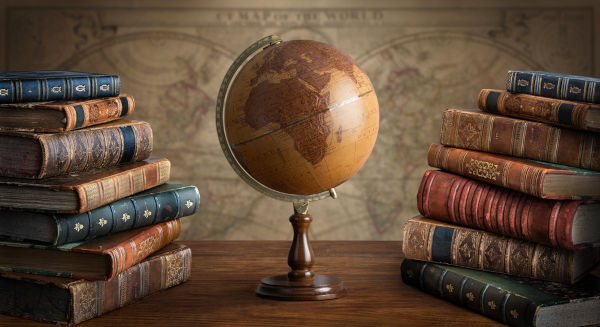
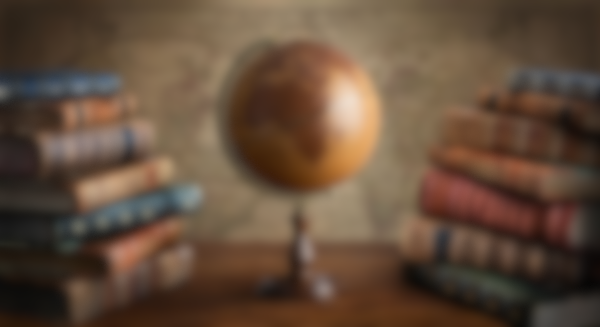
fix: re-corrigindo o header

diff --git a/css/disciplinas.css b/css/disciplinas.css
@@ -1,76 +1,54 @@
-* {
-    padding: 0;
-    margin: 0;
+ * {
     box-sizing: border-box;
+    margin: 0;
+    padding: 0;
 }
 
-body {
-    background-color:white;
-    font-family: 'Times New Roman', Times, serif;
-}
 
 header {
-    padding-left: 15px;
-    padding-right: 15px;
-    background-color: #c8deff;;
+    background-color: #c8deff;
     color: #103060;
     display: flex;
-    flex-direction: row;
-    justify-content: space-between;
     align-items: center;
-    gap: 10%;
+    justify-content: space-between;
 }
+
 
 #logo {
- padding-right: 55px;
-}
-
-#logo-img img {
     width: 100%;
     height: 120px;
 }
 
-#menu {
-    padding-left: 100px;
+
+main {
+    padding: 10px;
+}
+
+
+#botoes-header {
     display: flex;
-    flex-direction: row;
-    justify-content: space-between;
-    align-items: center;
-    flex-wrap: nowrap;
-    gap: 16px;
-    width: 30%;
+    gap: 10px;
 }
 
-#menu a {
+
+#botao-contato {
+    margin-right: 40px;
+} 
+
+
+.botao {
     background-color: #103060;
-    padding: 5px;
-    border-radius: 8px;
-    text-decoration: none;
     color: white;
+    padding: 10px 20px;
+    border-radius: 8px;
+    cursor: pointer;
     transition: all 0.3s ease-in-out;
+    text-decoration: none;
 }
 
-#menu a:hover {
+
+.botao:hover {
     background-color: #4039cb;
-}
-
-#contato {
-    width: 33%;
-    text-align: right;
-    padding-right: 50px;
-}
-
-#contato a {
-    background-color:#103060;
-    padding: 5px;
-    border-radius: 8px;
-    text-decoration: none;
-    color: white;
-    transition: all 0.3s ease-in-out;
-}
-
-#contato a:hover {
-    background-color:#4039cb;
 }
 
 #introducao-materias {
@@ -97,7 +75,7 @@ header {
   padding: 100px;
   background-image: url(../assets/img/historia.png);
   width: 500px;
-  height: 400px;
+  height: 325px;
   border-radius: 10px;
 }
 
@@ -110,7 +88,7 @@ header {
   padding: 100px;
   background-image: url(../assets/img/portugues.png);
   width: 500px;
-  height: 400px;
+  height: 325px;
 }
 
 #container-historia p {
@@ -124,7 +102,7 @@ header {
 #historia {
   border-radius: 8px;
   padding: 20px;
-  background-color: rgba(255, 228, 196, 0.5);
+  background-color: rgba(190, 216, 255, 0.5);
   color: white;
   text-decoration: none;
   transition: all 0.3s ease-in-out;
@@ -132,7 +110,7 @@ header {
 
 .title-materia {
     margin-bottom: 20px;
-    background-color: white;
+    background-color: #c8deff;
     color: black;
     border-radius: 5px;
 }
@@ -140,18 +118,18 @@ header {
 #portugues {
   border-radius: 8px;
   padding: 20px;
-  background-color: rgba(255, 228, 196, 0.5);
+  background-color: rgba(190, 216, 255, 0.5);
   color: white;
   text-decoration: none;
   transition: all 0.3s ease-in-out;
 }
 
 #historia:hover {
-    background-color: rgb(255, 219, 176)
+   background-color: rgba(134, 171, 226, 0.5);
 }
 
 #portugues:hover {
-    background-color: rgb(255, 219, 176)
+    background-color: rgba(134, 171, 226, 0.5);
 }
 
 

diff --git a/pages/disciplinas.html b/pages/disciplinas.html
@@ -6,21 +6,19 @@
     <link rel="stylesheet" href="../css/disciplinas.css" />
   </head>
   <body>
-    <header>
-            <section id="logo">
-                <section id="logo-img" >
-                    <img src="../assets/img/logo.png" alt="imagem da logo do site escrito Aprovaê" />
-                </section>
-            </section>
-            <section id="menu">
-                <p><b><a href="../index.html">Início</a></b></p>
-                <p><b><a href="carreiras.html">Sobre nós</a></b></p>
-                <p><b><a href="sobre.html">Sobre</a></b></p>
-            </section>
-            <section id="contato">
-                <p><b><a href="contato.html">Contato</a></b></p>
-            </section>
-        </header>
+    <header id="topo">
+        <section>
+            <img id="logo" src="../assets/img/logo.png" alt="logo do site aprovaê" />
+        </section>
+        <section id="botoes-header">
+            <a href="index.html" class="botao">Início</a>
+            <a href="pages/sobre.html" class="botao">Sobre nós</a>
+            <a href="pages/disciplinas.html" class="botao">Matérias</a>
+        </section>
+        <section>
+            <a id="botao-contato" href="/pages/" class="botao">Entrar em contato</a>
+        </section>
+    </header>
     <main>
       <section id="introducao-materias">
         <h1>Frase sobre os tópicos que serão abordados em cada disciplina</h1>
@@ -35,7 +33,7 @@
             <section>
                 <section>
                     <p>
-                Está matéria abordara conteúdos como : interpretação, compreensão de Texto e Figuras de Linguagem
+                Está matéria abordara conteúdos como: interpretação, compreensão de Texto e Figuras de Linguagem.
               </p> 
                 </section>
                 <section>
@@ -53,10 +51,7 @@
           <section>
             <article>
               <p>
-                Texto sobre Texto sobre Texto sobre Texto sobre Texto sobre
-                Texto sobre Texto sobre Texto sobre Texto sobre Texto sobre
-                Texto sobre Texto sobre Texto sobre Texto sobre Texto sobre
-                Texto sobre
+                Está matéria abordara conteúdos como : ditadura militar, era vargas e a revolução francesa.
               </p>
             </article>
             <article>
